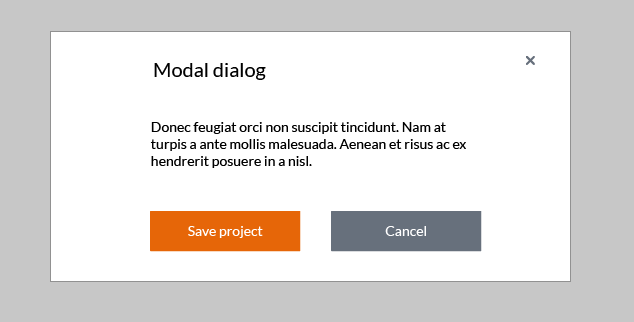
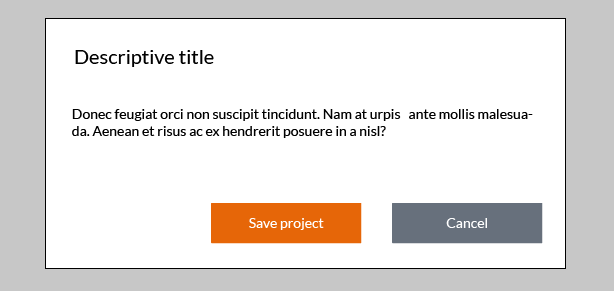
Button alignment in modal dialog changed so that  text is aligned to left and buttons to right.

Changed region(s): [[0.0619, 0.0619, 0.9283, 0.9278], [0.1238, 0.1546, 0.4332, 0.2474]]

diff --git a/ocui/design.html b/ocui/design.html
@@ -469,7 +469,7 @@
                             <h2>Modals</h2>
                             <p>
                                 Bootstrap is used as a basis for implementation. Overlapping modals i.e.
-                                two at a time should never be used: this is an indication that something is wrong in the workflow.
+                                two at a time should never be used: this is an indication that something is wrong in the workflow. Modal title should be short but descriptive, e.g. Inactivate user or Save unsaved changes.
                    			</p>
                         	<img class="img-responsive" src="images/modalDialog.png" alt="Modal dialog" />
                         	  <p>
